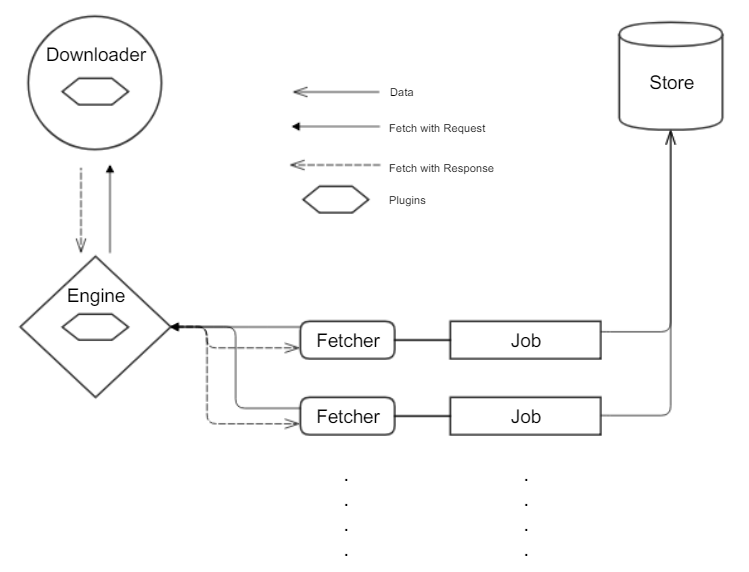
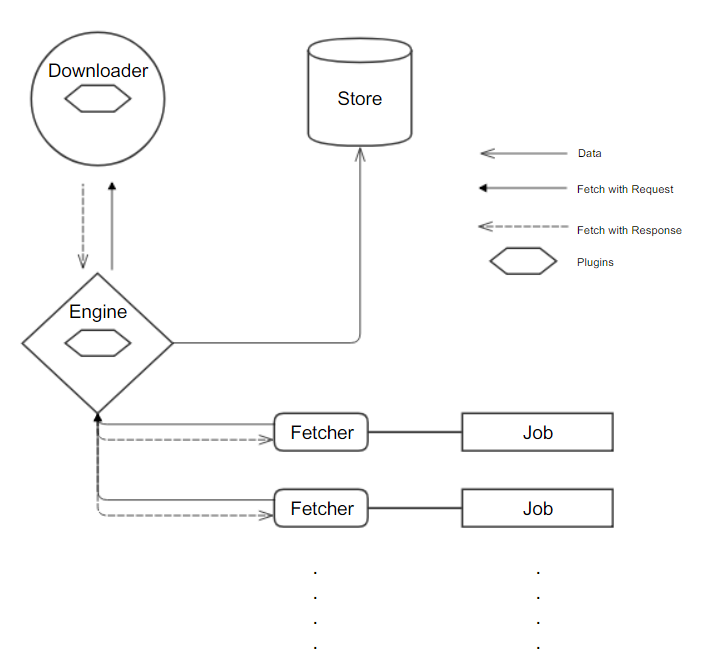
:memo: (docs) update docs

diff --git a/docs/start/Introduce.md b/docs/start/Introduce.md
@@ -5,21 +5,20 @@ IGetter 的目标是成为一个面向单机的监控型爬虫框架。
 
 它能够监控用户关注的信息的改变，例如关注的微博更新，知乎回答、专栏更新等等。
 
-大家可能用过一个APP叫即刻，它的作用与此类似。作者在两年前开始使用，感觉很棒，能把想要的信息聚合起来。不过即刻的发展方向转变为社交了，连爬虫机器人都不能创建了，稍稍有点失望。所以我写了这个爬虫框架，就是为了弥补这个遗憾。
+大家可能用过一个 APP 叫即刻，它的作用与此类似。作者在两年前开始使用，感觉很棒，能把想要的信息聚合起来。不过即刻的发展方向转变为社交了，连爬虫机器人都不能创建了，稍稍有点失望。所以我写了这个爬虫框架，就是为了弥补这个遗憾。
 
-至于为什么它是面向单机的呢，是为了避免爬虫是否违法以及版权纠纷。不过后期会考虑做成P2P的模式，以提高消息的及时性。
+至于为什么它是面向单机的呢，是为了避免爬虫是否违法的问题以及版权纠纷。不过后期会考虑做成P2P的模式，以提高消息的及时性。
 
 # 工作流程
 
-在IGetter中Job是一个爬虫的称呼。比如`steamCN日报更新`就是一个Job。
+在 IGetter 中 Job 是一个爬虫的称呼。比如`steamCN日报更新`就是一个 Job。
 
-Job只负责向Engine发出请求，然后等待Engine返回请求，接收到请求后再执行其解析过程，得到信息后进行存储。
+Job 只负责向 Engine 发出请求，然后等待 Engine 返回请求，接收到请求后再执行其解析过程，得到信息后交由 Engine 存储。
 
-负责执行、调度Job的就是Engine，它会根据Job的某些属性来进行决定是否执行，例如Job的`minInterval`属性决定其最小执行间隔，因为过于密集的请求会产生IP被封禁的风险。
+负责执行、调度 Job 的就是 Engine，它会根据 Job 的某些属性来进行决定是否执行、何时执行它，例如 Job 的`minInterval`属性决定其最小执行间隔，因为过于密集的请求会产生IP被封禁的风险。
 
-Donwloader则负责下载Engine收到的请求，它是一个异步并发下载队列，下载完成后通知Engine交付给Job，充分利用了Node的异步特色，高效而快速。
+Donwloader 则负责下载 Engine 收到的请求，它是一个异步并发下载队列，下载完成后通知 Engine 交付给 Job，充分利用了 Node 的异步特色，高效而快速。
 
-Store负责存储，存储Job爬取到的有效信息。
+Store 负责存储，存储 Job 爬取到的有效信息。
 
-Plugin用于扩展IGetter。它使用`Tapable`库将一个爬虫从发出请求到Downloader正式下载再到接收响应的整个过程都暴露出来。在此之上我们可以做很多事情，例如：在发出请求前附加Random User-Agent；在请求时进行代理设置；整个过程中收集信息进行性能分析、爬虫监控等等都交由Plugin来扩展。（得益于WebPack产生的灵感）
-
+Plugin 用于扩展 IGetter。它使用`Tapable`库将一个爬虫从发出请求到 Downloader 正式下载再到接收响应的整个过程都暴露出来。在此我们可以做很多事情，例如：在发出请求前附加随机 User-Agent；在请求时进行代理设置；整个过程中收集信息进行性能分析、爬虫监控等等都交由 Plugin 来扩展。（由 WebPack 产生的灵感）

diff --git a/README.md b/README.md
@@ -6,13 +6,13 @@ IGetter是一个声明式、易扩展的监控型爬虫框架。
 
 - 声明式：IGetter是一个基础的监控型爬虫框架，用户只需编写相应的解析即可。其余的调度、下载、存储由IGetter负责。
 - 易扩展：IGetter使用Tapable暴露爬虫的生命周期，从发出请求到接收到响应整个过程都可控。
-- 监控型：IGetter更擅长以监控信息为目的的爬虫，例如：JavaScript周报更新、BiliBili王老菊视频更新...
+- 监控型：IGetter更擅长以监控信息为目的的爬虫，例如：JavaScript周报更新、BiliBili UP 主视频更新...
 
 <h2 align="center">构成</h2>
 
 IGetter主要分为Engine、Downloader、Job、Plugin、Store五部分。
 
-**Engine**负责Job的添加、调度，传递Job的请求、Downloader的响应以及插件的注入。
+**Engine**负责Job的添加、调度，传递Job的请求、Downloader的响应以及插件的注册。
 
 **Downloader**是一个异步并发下载队列，负责下载Engine传递来的请求。使用superagent库来下载，如果想使用其他请求库，替换非常简单。
 
@@ -23,7 +23,7 @@ IGetter主要分为Engine、Downloader、Job、Plugin、Store五部分。
 **Store**是IGetter提供的存储工具，使用nedb库，类mongoDB的语法更易使用。当然，如果想使用其他存储库，也可替换。
 
 <p align="center">
-	<img src="./docs/IGetter.png" alt="alt text" width="500" height="400">
+  <img src="./docs/IGetter.png" alt="alt text" width="600" height="450">
 </p>
 
 <h2 align="center">例子</h2>
@@ -33,24 +33,20 @@ IGetter主要分为Engine、Downloader、Job、Plugin、Store五部分。
 
 ```ts
 class YourJob extends Job{
-	public JobName = 'A Example Job' // 任务名称
-	constructor(){
-		super()
-	}
-	async run(){ // 任务主体
-		let $ = this.$ // 内置解析器cheerio
-		let pageFetch = await this.request({ // 发出请求，等待Downloader下载
-			url: 'https://example.com'
-		})
-		let resBody = pageFetch.response.body // 获取响应
-		ler res = {}
-		res.title = $('#title', resBody) // 使用cheerio获取title信息
-		res.content = $('#content', resBody) // 使用cheerio获取content信息
-		return res
-	}
-	async save(res){ // 接收来自run()的数据
-		let store = this.store // 每个Job的存储器, 使用nedb，语法相同
-		store.insert(res) // 存储数据
-	}
+  public JobName = 'A Example Job' // 任务名称
+  constructor(){
+    super()
+  }
+  async run(){ // 任务主体
+    let $ = this.$ // 内置解析器cheerio
+    let pageFetch = await this.request({ // 发出请求，等待Downloader下载
+      url: 'https://example.com'
+    })
+    let resBody = pageFetch.response.body // 获取响应
+    return { // 返回的数据将会交由Engine存储值Store
+      title: $('#title', resBody) // 使用cheerio获取title信息,
+      content: $('#content', resBody) // 使用cheerio获取content信息
+    }
+  }
 }
 ```

diff --git a/docs/start/Use.md b/docs/start/Use.md
@@ -5,7 +5,7 @@ IGetter的使用是非常简单的，例子如下：
 
 ```ts
 import { Engine, Downloader} from 'igetter'
-import Steamcn form 'igetter-job-steamcn'
+import Steamcn form './igetter-job-steamcn'
 
 let E = new Engine() // 构造Engine实例
 let D = new Downloader() // 构造Downloader实例
@@ -16,13 +16,74 @@ E.addJob(new Steamcn()) // 添加任务
 
 E.run() // IGetter开始运行
 
+E.listen((data) => {
+	// 消费爬取到的数据
+})
 ```
 
 # 面向Job编写者
 
-Job的编写、维护是非常耗时耗力的。所以这也是急需大家贡献力量的地方。
+Job的编写、维护是非常耗时耗力的。因为网站的样式都不一样，信息的获取是非常繁琐的。这也是急需大家贡献力量的地方。
 
-如果你有想法，请提出PR。
+如果你有什么想法或者已经编写好的 Job，请向//TODO提出 Issue 或者 Pull Request 
+
+下面我来举一个 Job 的例子：
+
+作者平时喜欢浏览[SteamCN](https://steamcn.com/)论坛。在其中的热点聚焦板块，每天会有当日的游戏**新闻汇总**。我们就来写一个 Job，目的就是当**每日新闻汇总**发出来时，通知我们。
+
+```ts
+import { Job } from 'igetter'
+
+class steamcn extends Job{ // 继承Job类
+  public JobName = 'SteamCN 每日新闻汇总' // Job名称 
+
+  public euqalDate(date?: Date) { // 简单的方法类，用来判断日期是否相等
+    if (!date) {
+      date = new Date()
+    }
+    let todayString = date.toDateString()
+    let dateString = date.toDateString()
+    return todayString === dateString
+  }
+  public async run() {
+    let $ = this.$
+    let hotPages = await this.request({
+      url: 'https://steamcn.com/f161-1' // 热点聚焦板块
+    })
+    let pageInfo = {
+      date: new Date(), // 帖子日期
+      title: '', // 帖子标题
+      url: '' // 帖子地址
+    }
+    let that = this
+    let lists = $('tbody', hotPages.response.body) // 帖子列表
+    lists.each(function(i, list) {
+      let date: Date, title: string, url: string
+      let tr = $('tr', this)
+      let dateSpan = tr.children('.by-author').children('em').children('span') // 每个帖子的发表日期
+      if (dateSpan.length) { // 最近的时间才有span元素
+        date = new Date(dateSpan.attr('title'))
+        title = $('.new>a.xst', tr).text()
+        url = $('.new>a.xst', tr).attr('href')
+        let reg = new RegExp(/.?新闻汇总./)
+        if (that.euqalDate() && reg.test(title)) { // 帖子日期为今日且标题含'新闻汇总'
+          pageInfo.date = date
+          pageInfo.title = title
+          pageInfo.url = 'https://steamcn.com/' + url
+          return false
+        }
+      }
+    })
+    if (pageInfo.url) { // 本次执行获取到信息时，返回进行存储
+      return pageInfo
+    }
+    return false
+  }
+}
+```
+
+
+
 
 
 

diff --git a/docs/README.md b/docs/README.md
@@ -27,7 +27,7 @@ IGetter主要分为Engine、Downloader、Job、Plugin、Store五部分。
 PS：IGetter的目标是提供一个信息监控、聚合的基础框架，在此之上打算使用Electron或Chrome Extension写一个消息聚合平台。
 
 <p align="center">
-	<img src="./IGetter.png" alt="alt text" width="600" height="450">
+	<img src="./IGetter.png" alt="alt text" width="500" height="450">
 </p>
 
 # 例子
@@ -48,14 +48,10 @@ class YourJob extends Job{
 			url: 'https://example.com'
 		})
 		let resBody = pageFetch.response.body // 获取响应
-		return {
+		return { // 返回的数据将会交由Engine存储值Store
 			title: $('#title', resBody) // 使用cheerio获取title信息,
 			content: $('#content', resBody) // 使用cheerio获取content信息
 		}
-	}
-	async save(res){ // 接收来自run()的数据
-		let store = this.store // 每个Job的存储器, 使用nedb，语法相同
-		store.insert(res) // 存储数据
 	}
 }
 ```
